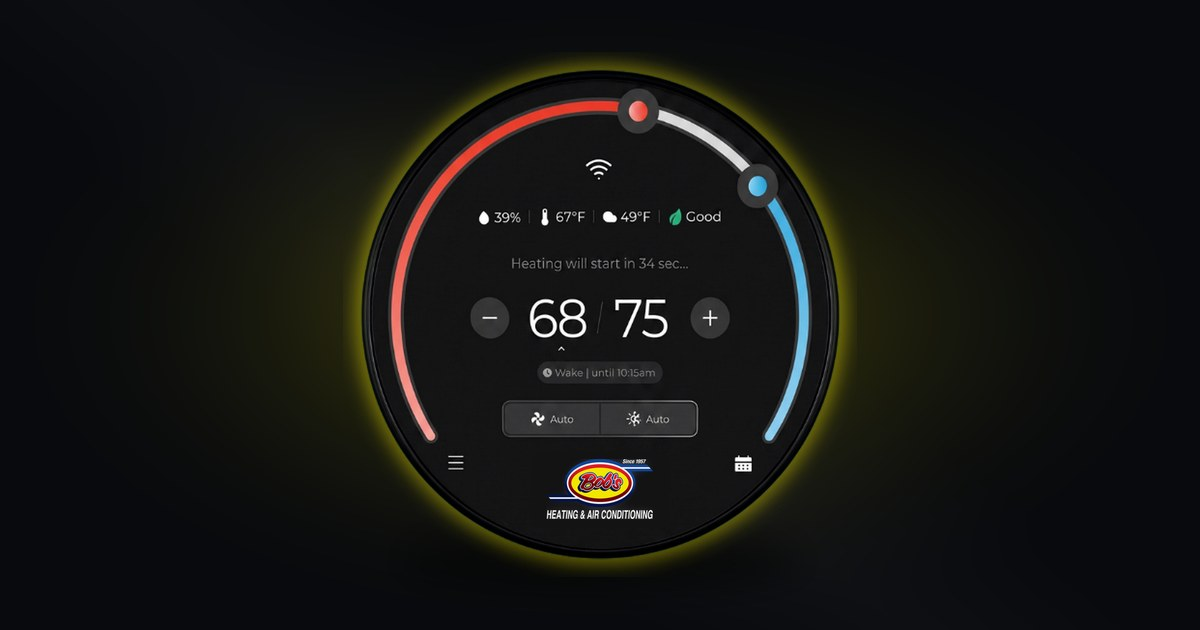
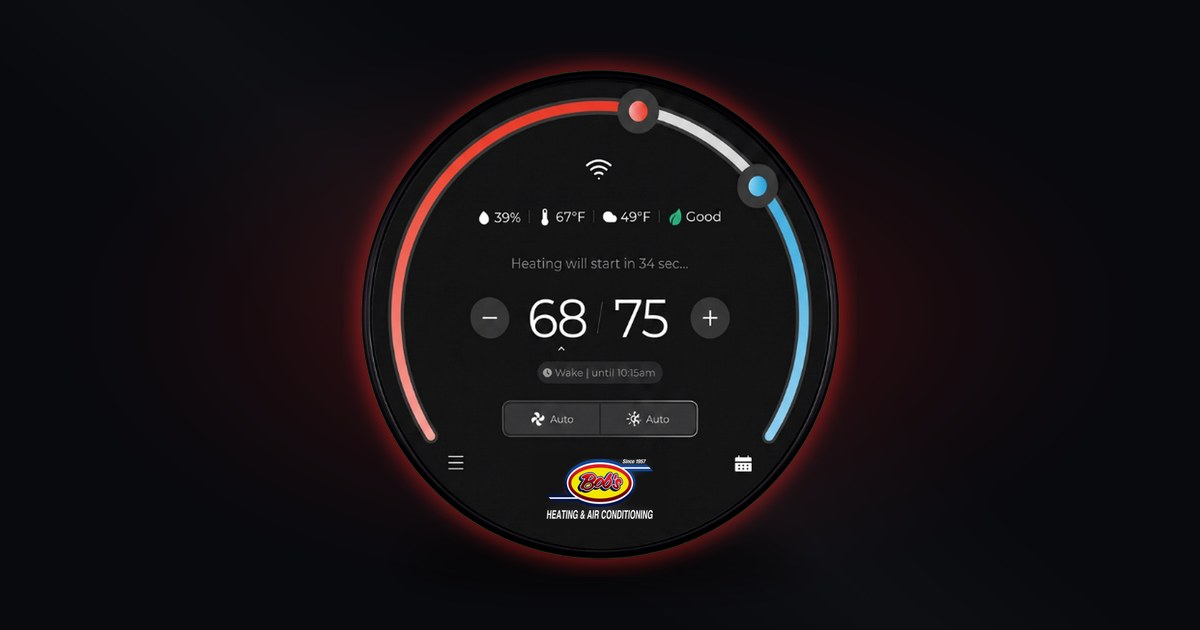
Breathing glow on hero stat; Bob's recolored to header red; dim edge glow on all pages
Claude-Session: https://claude.ai/code/session_012AqaY1b8qUps9Z5Y3P5Xgx

Changed region(s): [[0.4008, 0.0905, 0.74, 0.9048], [0.2775, 0.1508, 0.4008, 0.8444]]

diff --git a/bobs-heating/index.html b/bobs-heating/index.html
@@ -24,7 +24,7 @@
 :root{
   --bg:#07090c; --bg2:#0c1016; --card:#11161d; --line:#1d242e;
   --text:#eef3f6; --muted:#93a0ac; --cyan:#45e3f7; --cyan-d:#1fb8cc;
-  --brand:#fef201; --brand-rgb:254,242,1;
+  --brand:#ff2929; --brand-rgb:255,41,41;
 }
 *{box-sizing:border-box;margin:0;padding:0}
 html{scroll-behavior:smooth;-webkit-text-size-adjust:100%}
@@ -33,7 +33,7 @@ body{background:var(--bg);color:var(--text);font-family:Manrope,system-ui,-apple
 img,video{display:block;max-width:100%}
 /* faint brand glow around the screen edges */
 body:after{content:"";position:fixed;inset:0;z-index:30;pointer-events:none;
-  box-shadow:inset 0 0 70px -10px rgba(var(--brand-rgb),.28),inset 0 0 18px -6px rgba(var(--brand-rgb),.22)}
+  box-shadow:inset 0 0 60px -14px rgba(var(--brand-rgb),.09),inset 0 0 14px -8px rgba(var(--brand-rgb),.06)}
 a{color:inherit}
 .wrap{max-width:520px;margin:0 auto;padding:0 20px}
 section{padding:56px 0}
@@ -56,7 +56,8 @@ p strong{color:var(--text);font-weight:700}
 .hero{padding:28px 20px 40px;text-align:center;position:relative}
 .hero:before{content:"";position:absolute;inset:40px 0 auto;height:420px;
   background:radial-gradient(closest-side,rgba(var(--brand-rgb),.22),transparent 70%);pointer-events:none}
-.stat{width:min(70vw,300px);height:auto;margin:6px auto 26px;position:relative;animation:float 6s ease-in-out infinite}
+.stat{width:min(70vw,300px);height:auto;margin:6px auto 26px;position:relative;animation:float 6s ease-in-out infinite,breathe 5s ease-in-out infinite}
+@keyframes breathe{0%,100%{filter:brightness(.9) drop-shadow(0 0 4px rgba(var(--brand-rgb),.12))}50%{filter:brightness(1.1) drop-shadow(0 0 22px rgba(var(--brand-rgb),.38))}}
 @keyframes float{50%{transform:translateY(-6px)}}
 .hero p{max-width:420px;margin:14px auto 0}
 .ctas{display:flex;gap:10px;justify-content:center;margin-top:24px;flex-wrap:wrap}

diff --git a/sample/index.html b/sample/index.html
@@ -33,7 +33,7 @@ body{background:var(--bg);color:var(--text);font-family:Manrope,system-ui,-apple
 img,video{display:block;max-width:100%}
 /* faint brand glow around the screen edges */
 body:after{content:"";position:fixed;inset:0;z-index:30;pointer-events:none;
-  box-shadow:inset 0 0 70px -10px rgba(var(--brand-rgb),.28),inset 0 0 18px -6px rgba(var(--brand-rgb),.22)}
+  box-shadow:inset 0 0 60px -14px rgba(var(--brand-rgb),.09),inset 0 0 14px -8px rgba(var(--brand-rgb),.06)}
 a{color:inherit}
 .wrap{max-width:520px;margin:0 auto;padding:0 20px}
 section{padding:56px 0}
@@ -56,7 +56,8 @@ p strong{color:var(--text);font-weight:700}
 .hero{padding:28px 20px 40px;text-align:center;position:relative}
 .hero:before{content:"";position:absolute;inset:40px 0 auto;height:420px;
   background:radial-gradient(closest-side,rgba(var(--brand-rgb),.22),transparent 70%);pointer-events:none}
-.stat{width:min(70vw,300px);height:auto;margin:6px auto 26px;position:relative;animation:float 6s ease-in-out infinite}
+.stat{width:min(70vw,300px);height:auto;margin:6px auto 26px;position:relative;animation:float 6s ease-in-out infinite,breathe 5s ease-in-out infinite}
+@keyframes breathe{0%,100%{filter:brightness(.9) drop-shadow(0 0 4px rgba(var(--brand-rgb),.12))}50%{filter:brightness(1.1) drop-shadow(0 0 22px rgba(var(--brand-rgb),.38))}}
 @keyframes float{50%{transform:translateY(-6px)}}
 .hero p{max-width:420px;margin:14px auto 0}
 .ctas{display:flex;gap:10px;justify-content:center;margin-top:24px;flex-wrap:wrap}

diff --git a/apex-plumbing-solutions/index.html b/apex-plumbing-solutions/index.html
@@ -63,7 +63,8 @@ p strong{color:var(--text);font-weight:700}
 .hero{padding:28px 20px 44px;text-align:center;position:relative}
 .hero:before{content:"";position:absolute;inset:30px 0 auto;height:440px;
   background:radial-gradient(closest-side,rgba(var(--brand-rgb),.20),rgba(var(--brand2-rgb),.08) 55%,transparent 75%);pointer-events:none}
-.stat{width:min(70vw,300px);height:auto;margin:6px auto 26px;position:relative;animation:float 6s ease-in-out infinite}
+.stat{width:min(70vw,300px);height:auto;margin:6px auto 26px;position:relative;animation:float 6s ease-in-out infinite,breathe 5s ease-in-out infinite}
+@keyframes breathe{0%,100%{filter:brightness(.9) drop-shadow(0 0 4px rgba(var(--brand-rgb),.12))}50%{filter:brightness(1.1) drop-shadow(0 0 22px rgba(var(--brand-rgb),.38))}}
 @keyframes float{50%{transform:translateY(-6px)}}
 .hero p{max-width:420px;margin:14px auto 0}
 .ctas{display:flex;gap:10px;justify-content:center;margin-top:24px;flex-wrap:wrap}

diff --git a/tools/template.html b/tools/template.html
@@ -63,7 +63,8 @@ p strong{color:var(--text);font-weight:700}
 .hero{padding:28px 20px 44px;text-align:center;position:relative}
 .hero:before{content:"";position:absolute;inset:30px 0 auto;height:440px;
   background:radial-gradient(closest-side,rgba(var(--brand-rgb),.20),rgba(var(--brand2-rgb),.08) 55%,transparent 75%);pointer-events:none}
-.stat{width:min(70vw,300px);height:auto;margin:6px auto 26px;position:relative;animation:float 6s ease-in-out infinite}
+.stat{width:min(70vw,300px);height:auto;margin:6px auto 26px;position:relative;animation:float 6s ease-in-out infinite,breathe 5s ease-in-out infinite}
+@keyframes breathe{0%,100%{filter:brightness(.9) drop-shadow(0 0 4px rgba(var(--brand-rgb),.12))}50%{filter:brightness(1.1) drop-shadow(0 0 22px rgba(var(--brand-rgb),.38))}}
 @keyframes float{50%{transform:translateY(-6px)}}
 .hero p{max-width:420px;margin:14px auto 0}
 .ctas{display:flex;gap:10px;justify-content:center;margin-top:24px;flex-wrap:wrap}
